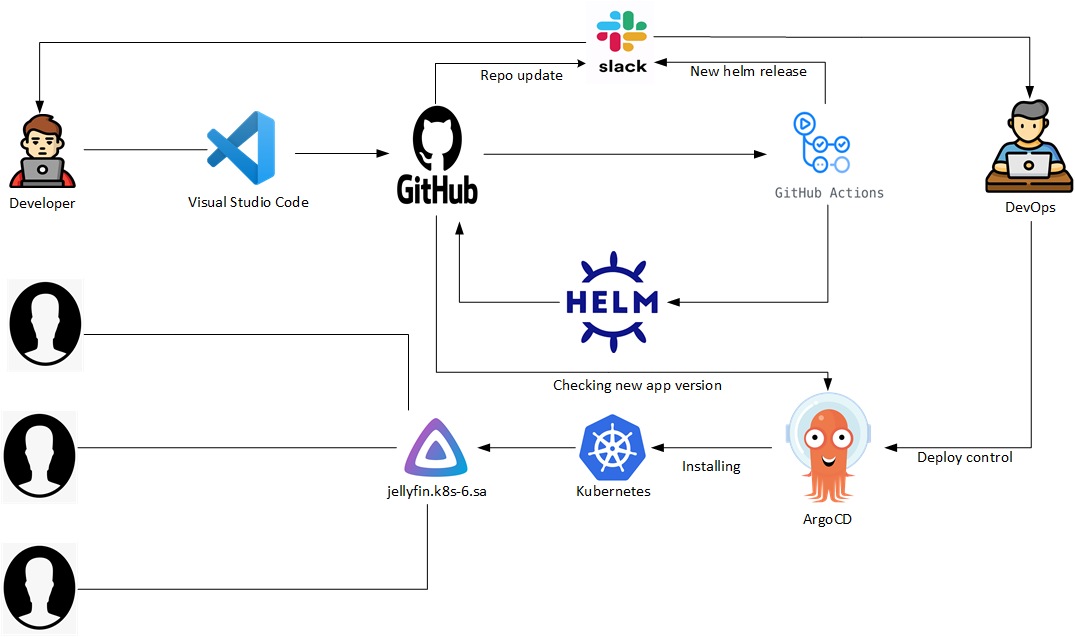
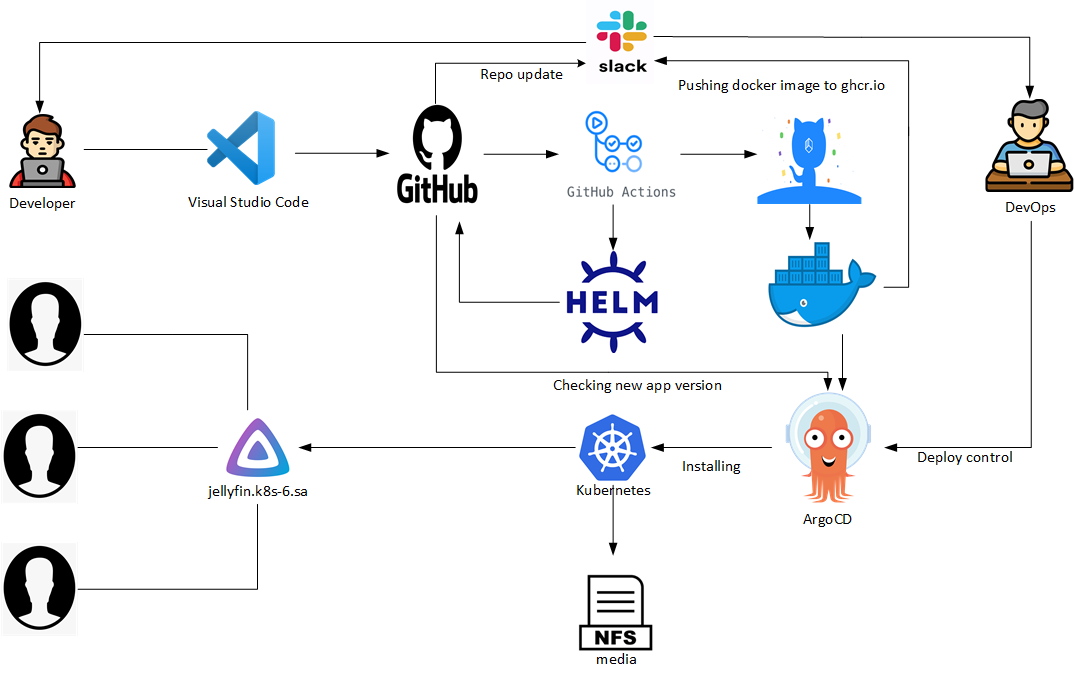
eidted README.md for final project

diff --git a/README.md b/README.md
@@ -45,10 +45,18 @@ Developer pushing commits to the master branch with changes of app. Git Action b
 Version selection in Argo CD
 Release strategy: RollingUpdate
 
-### Perfomance of steps
+### Perfomance of steps table
 
-
-
+| Process owner |                                   Step of deployment                                   | Time     |
+|---------------|:--------------------------------------------------------------------------------------:|----------|
+| Developer     | make changes to project like docker-compose.yml and Helm deployment files              | ~        |
+| Developer     | make commit and push changes to repo                                                   | ~        |
+| GitHub Action | build docker image from docker-compose.yaml and push them to GitHub container registry | ~20s     |
+| GitHub Action | build and index helm package                                                           | ~15s     |
+| GitHub Action | make commit by github action and push to repo                                          | ~5s      |
+| DevOps        | watch that were changed repo and appeared new helm-package release                     |          |
+| DevOps        | try to change/start version of application in helm package (Jellyfin)                  |          |
+| ArgoCD        | deployment of helm package to Kubernetes cluster                                       | ~1.5 min |
 
 ### Links:
 
